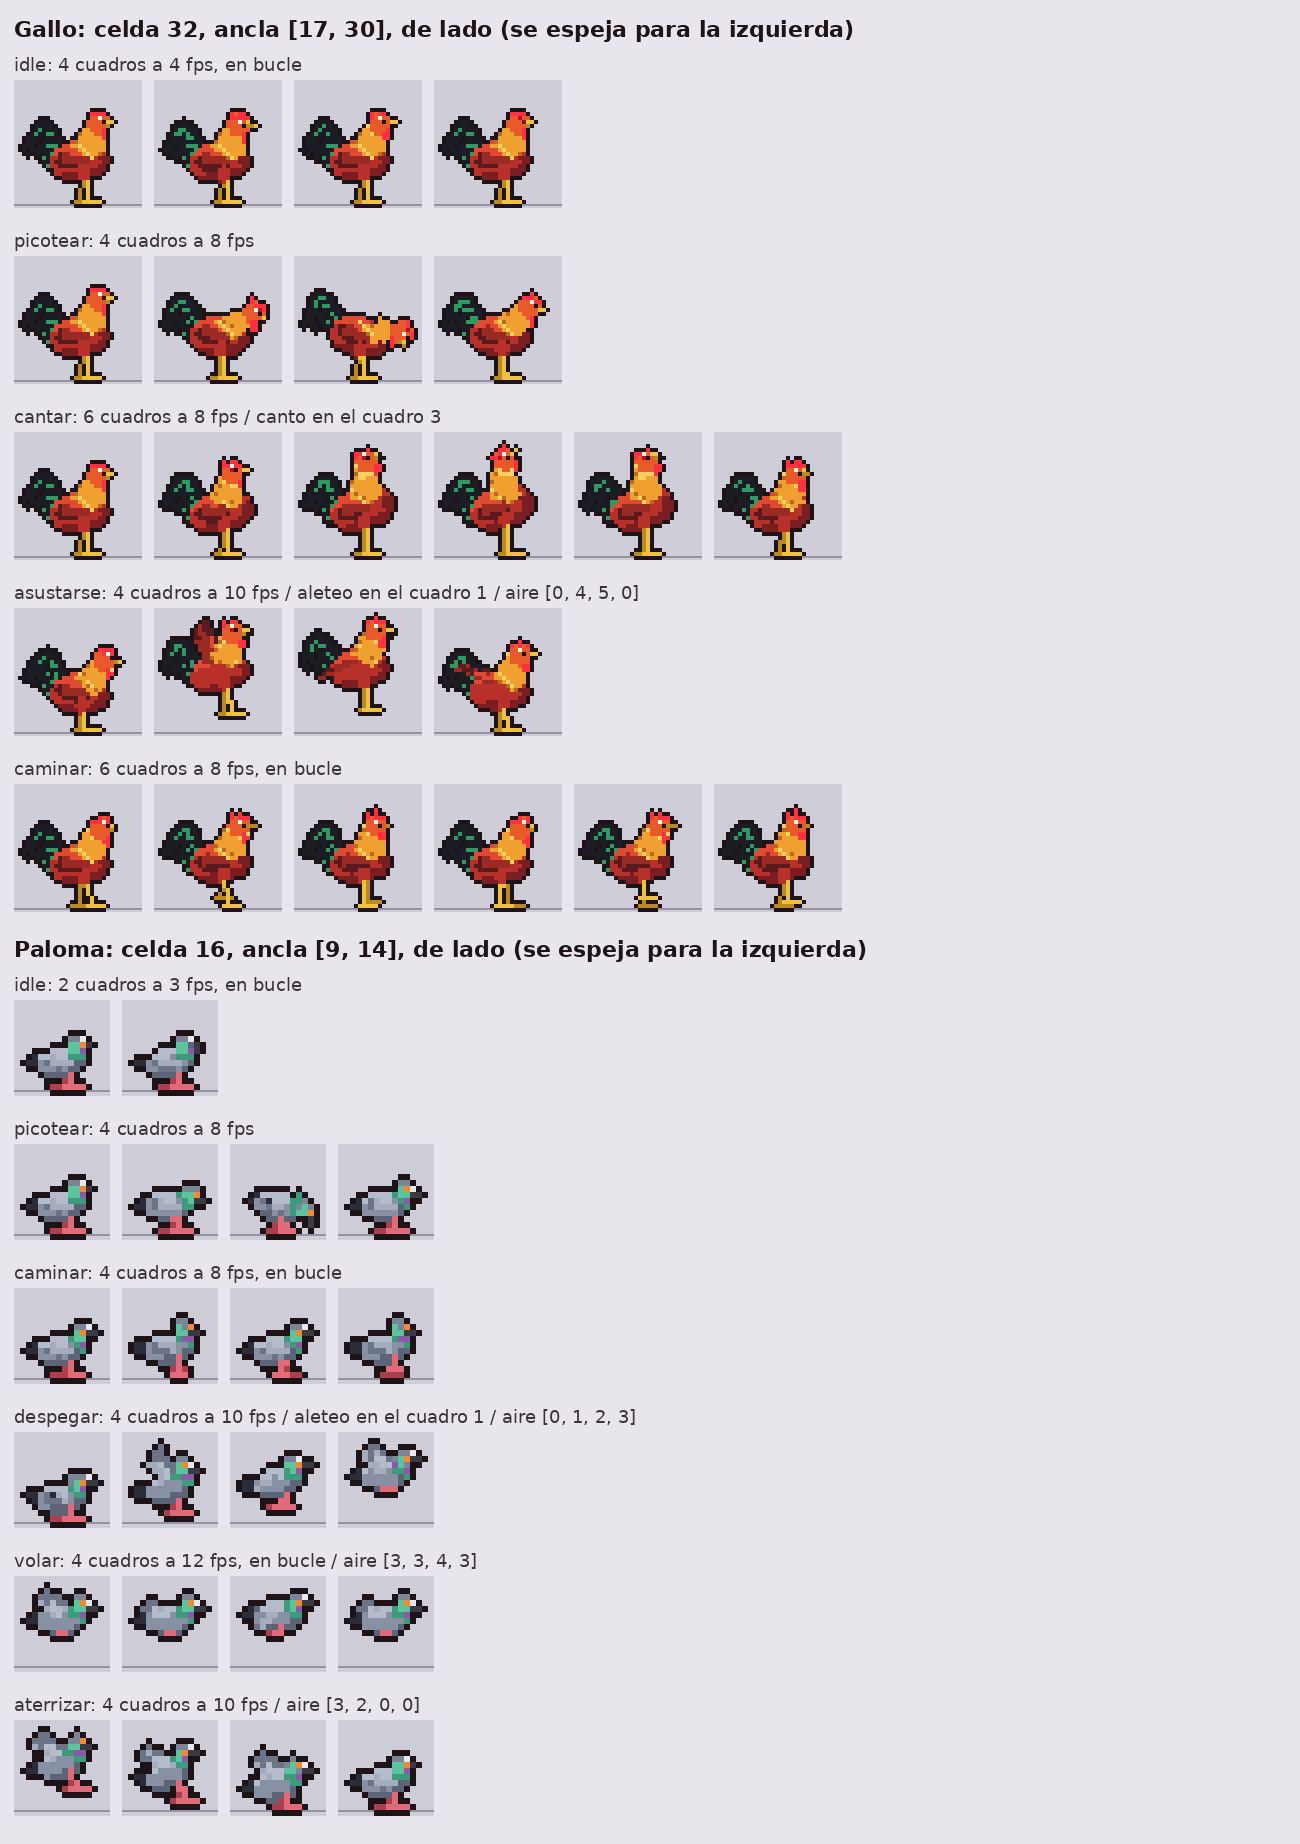
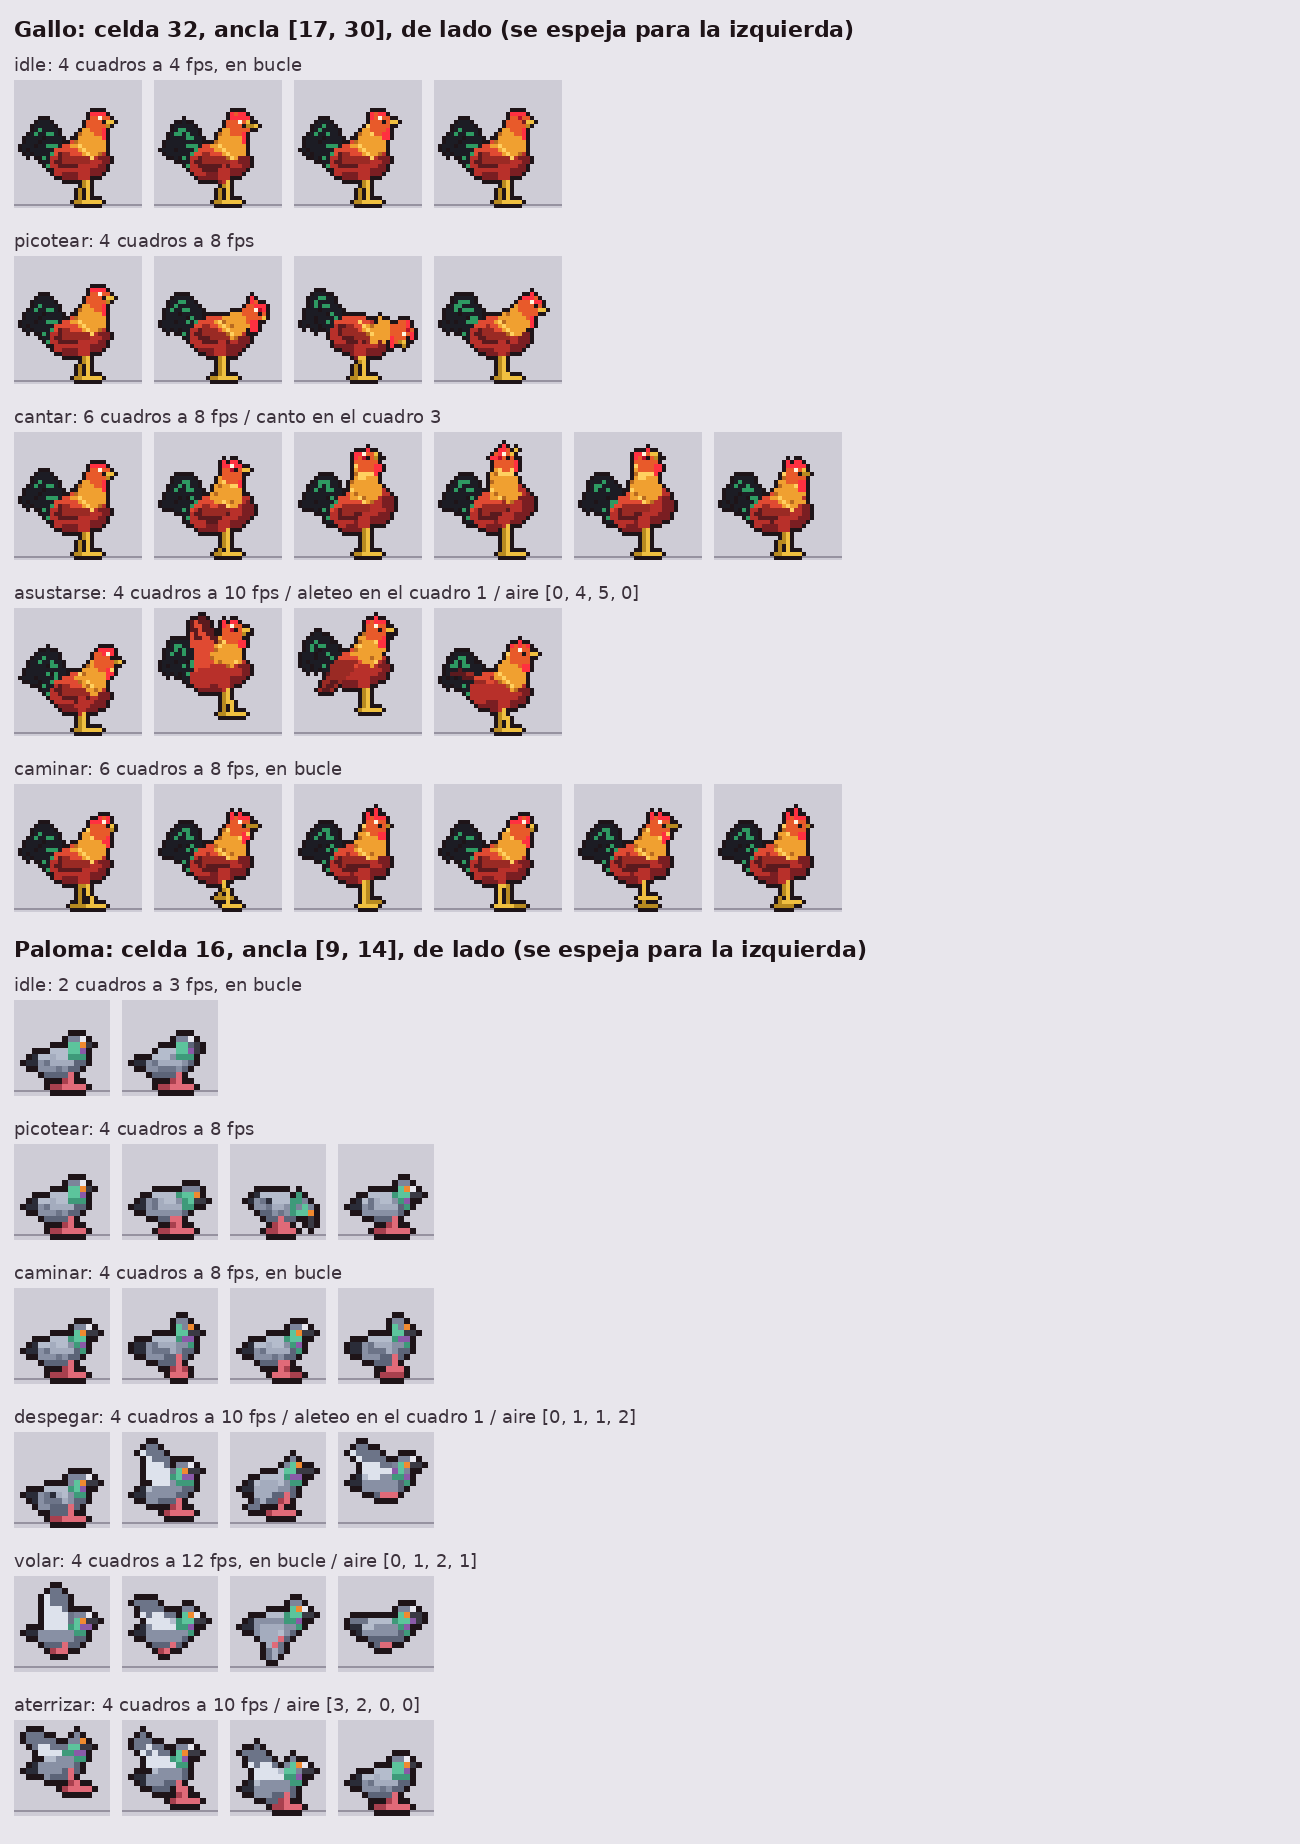
C7b: la paloma aletea de verdad y el límite del kit pasa a 300 s
- volar: dos cuadros con las alas arriba del lomo, uno abajo y uno de paso;
  la silueta cambia 4 px de alto
- El ala abierta es ancha, con la cara de abajo más clara (ala_bajo)
- La prueba del kit completo: 300 s (la máquina de hoy tarda 185 a 200)

Claude-Session: https://claude.ai/code/session_01JyeqgYaNCz4cU9RBqiqVkS

diff --git a/src/engine/__tests__/aves.test.ts b/src/engine/__tests__/aves.test.ts
@@ -37,6 +37,7 @@ describe('las aves: el gallo y la paloma (lote C7b)', () => {
         expect(usados.has(E.colores.contorno)).toBe(true);
         // nada pegado al borde de arriba ni a los lados: el contorno entra entero
         for (let y = 0; y < r.h; y++) for (const x of [0, r.w - 1]) expect(hex(r, x, y), `${id} ${a.nombre} ${i} borde`).toBeNull();
+        for (let x = 0; x < r.w; x++) expect(hex(r, x, 0), `${id} ${a.nombre} ${i} borde de arriba`).toBeNull();
       });
     }
   });
@@ -82,6 +83,15 @@ describe('las aves: el gallo y la paloma (lote C7b)', () => {
     expect(d.eventos).toEqual([{ tipo: 'aleteo', cuadro: 1 }]);
     const v = cuadros('paloma', 'volar');
     for (let i = 1; i < v.length; i++) expect(igual(v[i], v[i - 1]), `volar ${i}`).toBe(false);
+    // el aleteo se ve: las alas salen del cuerpo, arriba en 2 cuadros y abajo en 1, y la silueta cambia 4 px o más de alto
+    const alto = v.map((r) => { let y0 = r.h, y1 = -1; for (let y = 0; y < r.h; y++) for (let x = 0; x < r.w; x++) if (r.data[(y * r.w + x) * 4 + 3]) { y0 = Math.min(y0, y); y1 = Math.max(y1, y); } return { y0, y1, h: y1 - y0 + 1 }; });
+    expect(Math.max(...alto.map((a) => a.h)) - Math.min(...alto.map((a) => a.h))).toBeGreaterThanOrEqual(4);
+    const vol = ANIMS_AVE.paloma.find((a) => a.nombre === 'volar')!.poses.map((p) => p.ala as number);
+    expect(vol.filter((a) => a > 0.3)).toHaveLength(2);
+    expect(vol.filter((a) => a < -0.5)).toHaveLength(1);
+    expect(alto[2].y1).toBeGreaterThan(alto[3].y1);
+    // con el ala arriba se ve la cara de abajo, más clara
+    expect(cuadros('paloma', 'volar').slice(0, 2).every((r) => { for (let i = 0; i < r.data.length; i += 4) if (r.data[i + 3] && '#' + [0, 1, 2].map((k) => r.data[i + k].toString(16).padStart(2, '0')).join('') === AVES.paloma.colores.ala_bajo) return true; return false; })).toBe(true);
     const at = ANIMS_AVE.paloma.find((a) => a.nombre === 'aterrizar')!;
     expect(at.poses[at.poses.length - 1].aire).toBe(0);
   });
@@ -96,7 +106,7 @@ describe('las aves: el gallo y la paloma (lote C7b)', () => {
     for (const a of Object.values(g.entrada.anims)) { expect(a.desde).toBe(desde); desde += a.cuadros; }
     const p = aveTira('paloma');
     expect(p.entrada).toMatchObject({ w: 16, h: 16, ancla: [9, 14], cuadros: 22, eventos: { despegar: [{ tipo: 'aleteo', cuadro: 1 }] } });
-    expect(p.entrada.anims.volar.aire).toEqual([3, 3, 4, 3]);
+    expect(p.entrada.anims.volar.aire).toEqual([0, 1, 2, 1]);
     // en el kit a medida: van en animales sin ficha, y un ave que no existe sigue avisando
     const { files, warnings } = buildCustomKit({ juego: 'Prueba', personajes_incluidos: ['familia'], packs: { base: ['idle'] }, animales: ['gallo', 'paloma', 'garza'] }, {}, { quick: true, solo: ['animales'] });
     expect(files.map((f) => f.name).filter((n) => n.startsWith('animales/')).sort()).toEqual(['animales/gallo.png', 'animales/paloma.png']);

diff --git a/src/engine/render/ave.ts b/src/engine/render/ave.ts
@@ -119,18 +119,21 @@ export function dibujarAve(especie: string | AveEspecie, p: AvePose, celda?: num
   // el ala de lejos, abierta: detrás del cuerpo y más oscura
   const alaAbierta = (lejos: boolean) => {
     if (p.ala === 'plegada') return;
-    const b = rad(-55 + (p.ala + 1) * 65), largo = L(E.ala.abierta);
+    const b = rad(-80 + (p.ala + 1) * 77.5), largo = L(E.ala.abierta);
     const hombro = rot(L(E.cuerpo.rx * 0.2) + (lejos ? L(1) : 0), -ry * 0.45 - (lejos ? L(0.6) : 0));
     const dir: [number, number] = [-Math.cos(b), -Math.sin(b)];
     const punta: [number, number] = [hombro[0] + dir[0] * largo, hombro[1] + dir[1] * largo];
-    const atras: [number, number] = [hombro[0] - L(E.ala.largo) * 0.45, hombro[1] + L(0.6)];
-    const cola2: [number, number] = [atras[0] + dir[0] * largo * 0.75, atras[1] + dir[1] * largo * 0.75];
+    // el ala abierta es ancha: del hombro a la punta va el borde de ataque, y la cuerda corre hacia atrás por el lomo
+    const atras: [number, number] = [hombro[0] - L(E.ala.largo) * 0.75, hombro[1] + L(0.5)];
+    const cola2: [number, number] = [punta[0] + (atras[0] - hombro[0]) * 0.5, punta[1] + (atras[1] - hombro[1]) * 0.5];
     const pts: [number, number][] = [[hombro[0] + L(1), hombro[1]], punta, cola2, atras];
+    // con el ala arriba se ve la cara de abajo, más clara; con el ala abajo, la de arriba
+    const debajo = (p.ala as number) > 0.3, base = debajo ? k.ala_bajo ?? k.cuerpo_claro : k.ala;
     T.poligono(pts, lejos ? k.ala_oscura : (x, y) => {
       // el borde de ataque claro y las puntas de las plumas oscuras
       const fx = x - hombro[0], fy = y - hombro[1], along = fx * dir[0] + fy * dir[1], perp = fx * -dir[1] + fy * dir[0];
-      if (along > largo * 0.7) return ((Math.floor(perp / Math.max(1, L(1.3))) & 1) ? k.ala_oscura : k.ala);
-      return perp > -L(0.9) && perp < L(0.4) ? k.cuerpo_claro : k.ala;
+      if (along > largo * 0.72) return ((Math.floor(perp / Math.max(1, L(1.3))) & 1) ? k.ala_oscura : base);
+      return perp > -L(0.9) && perp < L(0.4) && !debajo ? k.cuerpo_claro : base;
     });
   };
   alaAbierta(true);

diff --git a/src/engine/anim/ave.ts b/src/engine/anim/ave.ts
@@ -99,20 +99,21 @@ export const ANIMS_PALOMA: AveAnim[] = [
     eventos: [{ tipo: 'aleteo', cuadro: 1 }],
     poses: [
       pose({ pitch: 4, alto: -0.7, cuello: 30, cola: -4 }),
-      pose({ pitch: 18, aire: 1, ala: 0.8, cuello: 15, patas: pasos(0.6, -0.4), cola: 6 }),
-      pose({ pitch: 12, aire: 2, ala: -0.7, cuello: 25, patas: pasos(-0.4, -1), cola: 8 }),
-      pose({ pitch: 4, aire: 3, ala: 0.6, cuello: 30, recogidas: true, cola: 4 }),
+      pose({ pitch: 18, aire: 0.7, ala: 0.8, cuello: 15, patas: pasos(0.6, -0.4), cola: 6 }),
+      pose({ pitch: 12, aire: 1.4, ala: -0.7, cuello: 25, patas: pasos(-0.4, -1), cola: 8 }),
+      pose({ pitch: 4, aire: 2, ala: 0.6, cuello: 30, recogidas: true, cola: 4 }),
     ],
   },
   {
+    // el aleteo: dos cuadros con las alas bien arriba del lomo, uno abajo y uno de paso; la silueta cambia de alto
     nombre: 'volar', fps: 12, loop: true,
-    poses: [0.5, 0.1, -0.8, 0.1].map((a, i) => pose({ pitch: 0, aire: 3 + (i === 2 ? 0.6 : 0), ala: a, cuello: 35, cabeza: 4, recogidas: true, cola: 2 })),
+    poses: [1, 0.55, -1, 0.05].map((a, i) => pose({ pitch: 0, aire: [0.4, 0.8, 1.8, 1.2][i], ala: a, cuello: 35, cabeza: 4, recogidas: true, cola: 2 })),
   },
   {
     nombre: 'aterrizar', fps: 10, loop: false,
     poses: [
       pose({ pitch: 20, aire: 3, ala: 0.45, cuello: 25, patas: pasos(1.4, 1), cola: 14 }),
-      pose({ pitch: 24, aire: 1.5, ala: 0.3, cuello: 20, patas: pasos(1.2, 0.8), cola: 16 }),
+      pose({ pitch: 24, aire: 1.5, ala: 0.55, cuello: 20, patas: pasos(1.2, 0.8), cola: 16 }),
       pose({ pitch: 12, aire: 0, alto: -0.6, ala: 0.6, cuello: 30, patas: pasos(0.8, -0.6), cola: 8 }),
       pose({ pitch: 8 }),
     ],

diff --git a/src/engine/rig/ave.ts b/src/engine/rig/ave.ts
@@ -33,6 +33,8 @@ export interface ColoresAve {
   contorno: string;
   cuerpo: string; cuerpo_claro: string; cuerpo_oscuro: string;
   ala: string; ala_oscura: string;
+  /** la cara de abajo del ala, más clara: se ve con el ala arriba */
+  ala_bajo?: string;
   cuello: string; cuello_claro: string; cuello_oscuro?: string;
   cabeza: string;
   cola: string; cola_brillo: string;
@@ -77,12 +79,12 @@ export const AVES: Record<string, AveEspecie> = {
     pico: { largo: 1.1, alto: 1 },
     tarso: 1.6, dedo: 1.4,
     cola: { tipo: 'corta', largo: 2.3, alto: 1.6 },
-    ala: { largo: 4.6, alto: 2.3, abierta: 5.5 },
+    ala: { largo: 4.6, alto: 2.3, abierta: 6.5 },
     esclavina: 'tornasol', barras: true,
     colores: {
       contorno: '#1e1418',
       cuerpo: '#8890a4', cuerpo_claro: '#b4bccc', cuerpo_oscuro: '#5c6478',
-      ala: '#a4acbe', ala_oscura: '#6c7488',
+      ala: '#a4acbe', ala_oscura: '#6c7488', ala_bajo: '#dde2ec',
       cuello: '#3e9a7a', cuello_claro: '#5cc49c', cuello_oscuro: '#8a5aa8',
       cabeza: '#7c849a',
       cola: '#5c6478', cola_brillo: '#2a2c38',

diff --git a/src/engine/__tests__/custom.test.ts b/src/engine/__tests__/custom.test.ts
@@ -171,8 +171,9 @@ describe('kit a medida (lote I): el kit completo de Nekketsu', () => {
     files = walk(out).map((p) => relative(out, p).replaceAll('\\', '/'));
   }, 240_000);
 
-  it('se genera en menos de 3 minutos', () => {
-    expect(seconds).toBeLessThan(180);
+  // el límite era 180 s; con el kit completo (escenarios, NPC, aves) y la máquina de hoy tarda entre 185 y 200: 300 s (lote C7b)
+  it('se genera en menos de 5 minutos', () => {
+    expect(seconds).toBeLessThan(300);
   });
 
   it('el manifiesto cumple el contrato (sección 4.3)', () => {

diff --git a/docs/olimpico/C7b/ENTREGA.md b/docs/olimpico/C7b/ENTREGA.md
@@ -19,6 +19,14 @@ Las dos aves que acordamos con el juego, sobre un esqueleto de ave nuevo, de lad
 - **Las aves en el kit** (`kit/aves.ts`): van en la sección `animales`, con `tipo: "ave"`, en una tira como los NPC. Traen el ancla en la cadera sobre el piso, los eventos y el `aire` de cada cuadro.
 - **El visor del kit lee aves:** las muestra de lado, en una sola fila, con su ancla. Antes esperaba un atlas con 5 filas para todo animal y las aves no se veían.
 
+**Después de probarlo en el juego.** El juego conectó las aves y pidió una cosa: la paloma volando era "una mancha gris que flota", porque las alas no salían del cuerpo.
+- **El aleteo de `volar` ahora tiene 4 tiempos:** dos cuadros con las alas bien arriba del lomo, uno abajo del cuerpo y uno de paso. La silueta cambia 4 px de alto, y sigue en celda 16.
+- **El ala abierta es ancha,** con la cuerda que corre por el lomo, y la punta con las plumas marcadas.
+- **Con el ala arriba se ve la cara de abajo, más clara** (`ala_bajo`, un color nuevo de la especie). El ala abajo baja más (hasta 80 grados).
+- El gallo usa el mismo dibujo de ala: su `asustarse` aletea con el ala más ancha.
+- El `aire` cambió: `despegar` [0, 1, 1, 2], `volar` [0, 1, 2, 1]. Nombres, anclas y formato, igual que antes.
+- **La prueba de "el kit en menos de 3 minutos" pasa a 300 s,** como pidió Rick: con la máquina de hoy tarda entre 185 y 200 s.
+
 ## Cómo se usa (estudio y kit)
 
 En el `kit.config.json` del juego basta con sumarlas a `animales`. No llevan ficha: vienen con el motor, como Thor.
@@ -60,10 +68,11 @@ En el manifiesto:
   - La imagen dorada `golden/aves_c7b.png`.
 - **`custom.test.ts`:** el kit de Nekketsu trae el gallo y la paloma (+2 PNG), con su entrada en `animales`. El esquema está regenerado.
 - **e2e del visor:** 32 personajes (suman el gallo y la paloma), y el gallo se dibuja en una fila de lado con `cantar`.
-- **Suite completa:** 30 archivos, 298 de 299.
-  - La que falla es "el kit se genera en menos de 3 minutos": tardó entre 185 y 201 s.
-  - **No es de este lote:** la rama de C6a, sin mis cambios, también tarda 195 s en esta máquina, y las aves suman menos de un segundo.
-  - Cuando se entregó C6a pasaba. Hoy la máquina va más lenta. No toqué el límite.
+- **Suite completa:** 30 archivos, 299 de 299, con el límite del kit en 300 s.
+  - Antes fallaba "el kit se genera en menos de 3 minutos": tardó entre 185 y 201 s.
+  - **No es de este lote:** la rama de C6a, sin mis cambios, también tardaba 195 s en esta máquina, y las aves suman menos de un segundo.
+  - Rick pidió subir el límite a 300 s.
+- **El aleteo se prueba:** dos alas arriba, una abajo, la silueta cambia 4 px o más, la cara de abajo clara con el ala arriba, y nada toca el borde de arriba de la celda.
 - **`tsc` limpio, `npm run build:sitio` limpio y e2e de Playwright 44 de 44.**
 
 ## Para aprobar (todo en esta carpeta)
@@ -83,7 +92,7 @@ En el manifiesto:
 
 ## Límites honestos
 
-- **La paloma es muy chiquita (16 px).** Se lee como paloma, pero las alas abiertas en vuelo son una mancha gris de 5 o 6 px. El aleteo se nota por el cambio de forma, no por el detalle de las plumas.
+- **La paloma es muy chiquita (16 px).** El aleteo se lee por la silueta y la cara clara del ala, no por el detalle de las plumas.
 - **El gallo asustado aletea con un ala roja grande** arriba del lomo. A 32 px se lee como "salta aleteando", pero no tiene el abanico de plumas de un gallo de verdad.
 - **Ninguna de las dos camina de verdad hacia adelante.** Los pasos y el cabeceo están en su sitio. El juego mueve al ave mientras toca `caminar`.
 - **No están en el estudio todavía.** Salen en el kit y en las pruebas, pero el catálogo del estudio no tiene la página de aves.
